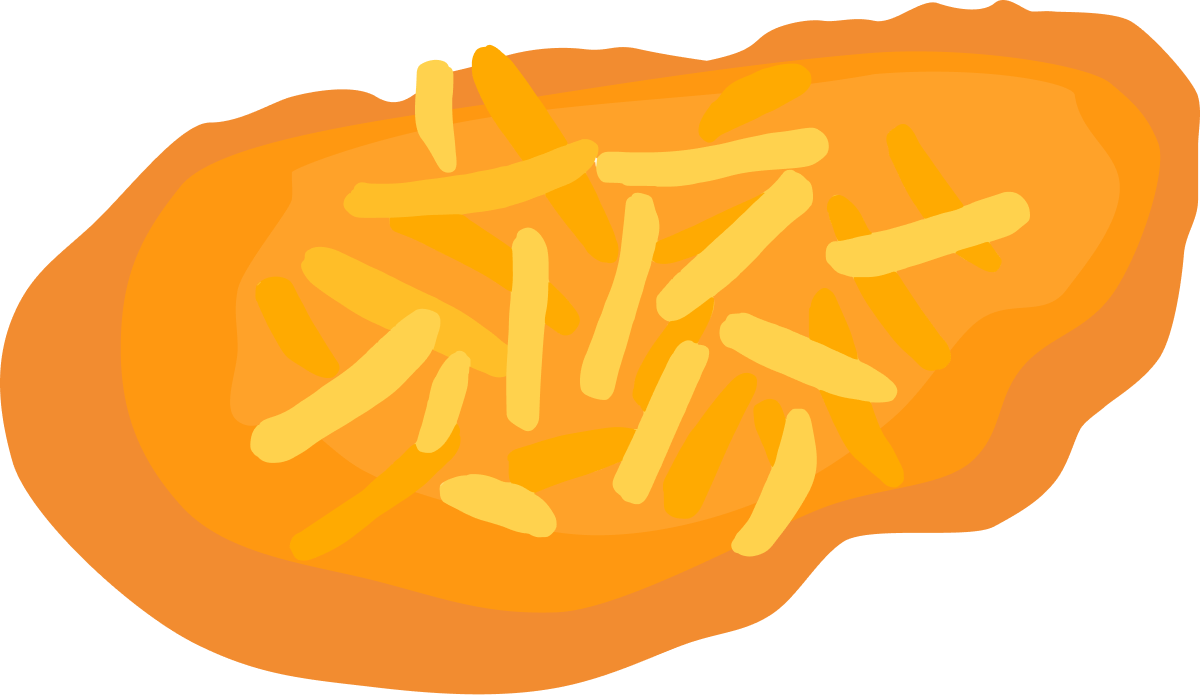
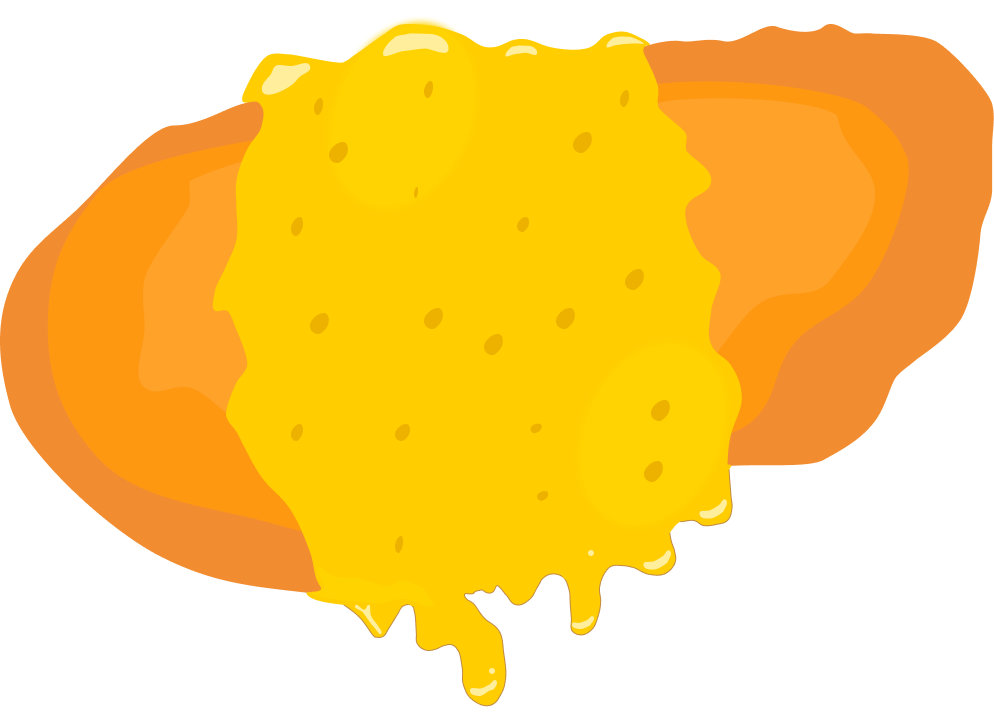
finer details

diff --git a/GetCooking/Managers/GameStateManager.swift b/GetCooking/Managers/GameStateManager.swift
@@ -160,6 +160,22 @@ final class GameStateManager: ObservableObject {
         max(Self.baseSpawnStagger / difficultyMultiplier, Self.minimumSpawnStagger)
     }
 
+    /// How strongly the music tempo tracks the difficulty tier. `1.0` makes the
+    /// music speed equal `difficultyMultiplier` outright (so 1.25× on the first
+    /// speed-up); lower values ramp the tempo up more gently than the clock.
+    /// Tune to taste — 0.5 gives a noticeable-but-not-frantic climb.
+    private static let musicTempoIntensity: Float = 0.5
+
+    /// The background-music playback speed for the current tier. On tier 0 it is
+    /// `1.0` (normal speed) and it climbs from there, blended toward normal by
+    /// `musicTempoIntensity` and clamped to the `0.5...2.0` range `AVAudioPlayer`
+    /// honours. `AudioManager.setMusicRate` clamps too, so this can never drive
+    /// the player out of range.
+    var musicRate: Float {
+        let blended = 1.0 + (Float(difficultyMultiplier) - 1.0) * Self.musicTempoIntensity
+        return min(max(blended, 0.5), 2.0)
+    }
+
     /// Whether the assembly clock is running.
     ///
     /// Only while `.cooking`. The moment the plate matches, the dish is safe:
@@ -229,6 +245,11 @@ final class GameStateManager: ObservableObject {
         // A restart wipes the board, so any low-time warning still looping from
         // the run that just ended has to be silenced explicitly.
         AudioManager.shared.stopClockWarning()
+        
+        // A fresh run starts on tier 0, so drop the music back to normal speed —
+        // otherwise it would still be racing at last run's tempo through the
+        // countdown until the first dish resets it.
+        AudioManager.shared.setMusicRate(1.0)
         AudioManager.shared.play(.reset)
         dishesByType = [:]
         speedBonus = 0
@@ -316,6 +337,9 @@ final class GameStateManager: ObservableObject {
     private func beginDishClock() {
         dishTimeLimit = max(currentRecipe.timeLimit / difficultyMultiplier, Self.minimumDishTime)
         dishDeadline = playClock + dishTimeLimit
+        // Push the music tempo up in lock-step with the tier that just squeezed
+        // the clock, so the track audibly speeds up as the run gets harder.
+        AudioManager.shared.setMusicRate(musicRate)
     }
 
     /// The dish clock ran out: costs a life, then either ends the run or moves
@@ -434,8 +458,8 @@ final class GameStateManager: ObservableObject {
         // carries the plate to the bell, so reading it later would under-count.
         recordCompletedDish()
         state = .dishComplete
-        // The plate is right: ring the bell — the dish is up.
-        AudioManager.shared.play(.bell)
+        
+        // The plate is right
         DispatchQueue.main.asyncAfter(deadline: .now() + Self.dishRevealDuration) { [weak self] in
             guard let self, self.state == .dishComplete else { return }
             self.bellSide = Bool.random() ? .left : .right
@@ -463,7 +487,7 @@ final class GameStateManager: ObservableObject {
         plateContents = []
         bellSide = nil
         currentRecipe = nextRecipe()
-        beginDishClock()
+        beginDishClock()   // also bumps the music tempo for the new tier
         state = .cooking
     }
 

diff --git a/GetCooking/Scenes/Components/ResetButtonNode.swift b/GetCooking/Scenes/Components/ResetButtonNode.swift
@@ -10,55 +10,39 @@ import SwiftUI
 
 final class ResetButtonNode: SKNode {
     let resetRadius: CGFloat
-    private let circle: SKShapeNode
-    private let arrow: SKSpriteNode
+    private let button: SKSpriteNode
     private let label: SKLabelNode
 
     init(radius: CGFloat) {
         self.resetRadius = radius
-        
-        // Circle
-        circle = SKShapeNode(circleOfRadius: resetRadius)
-        circle.fillColor = SKColor(.appText)
-        circle.strokeColor = .clear
-        
-        // Arrow
-        let config = UIImage.SymbolConfiguration(
-            pointSize: 50,
-            weight: .bold,
-        )
-        
-        // TODO: FIX COLOR, it doesnt show in the game.
-        
-        guard let image = UIImage(
-            systemName: "arrow.counterclockwise",
-            withConfiguration: config
-        )?.withTintColor(.appTertiary)
-        else {
-            fatalError("Could not load SF Symbol: arrow.counterclockwise")
-        }
 
-        
-        arrow = SKSpriteNode(
-            texture: SKTexture(image: image)
-        )
-        
+        // Button artwork from Assets.xcassets ("ResetButton") instead of a
+        // drawn circle + SF Symbol arrow. Sized to the same footprint the old
+        // circle had — width = 2 × resetRadius — so hit-testing and layout that
+        // key off `resetRadius` are unaffected. The height follows the image's
+        // own aspect ratio so it never looks squashed.
+        let texture = SKTexture(imageNamed: "ResetButton")
+        button = SKSpriteNode(texture: texture)
+
+        let targetWidth = resetRadius * 2
+        let aspect = texture.size().height / max(texture.size().width, 1)
+        button.size = CGSize(width: targetWidth, height: targetWidth * aspect)
+
         label = SKLabelNode()
-         
+
         super.init()
-        
-        setupArrow()
+
+        button.position = .zero
         setupLabel()
-        
-        addChild(circle)
-        addChild(arrow)
+
+        addChild(button)
         addChild(label)
     }
 
     required init?(coder aDecoder: NSCoder) {
         fatalError("init(coder:) has not been implemented")
     }
-    
+
     private func setupLabel() {
         let text = "Reset"
         let fontName = "SFPro-Bold"
@@ -97,9 +81,5 @@ final class ResetButtonNode: SKNode {
         node.verticalAlignmentMode = .center
         node.horizontalAlignmentMode = .center
         return node
-    }
- 
-    private func setupArrow() {
-        arrow.position = .zero
     }
 }

diff --git a/GetCooking/Managers/AudioManager.swift b/GetCooking/Managers/AudioManager.swift
@@ -233,6 +233,7 @@ final class AudioManager: NSObject {
             let player = try AVAudioPlayer(contentsOf: url)
             player.numberOfLoops = -1        // loop for the whole session
             player.volume = 0                // faded up below
+            player.enableRate = true
             player.prepareToPlay()
             player.play()
             player.setVolume(musicVolume, fadeDuration: fadeIn)
@@ -257,6 +258,20 @@ final class AudioManager: NSObject {
         DispatchQueue.main.asyncAfter(deadline: .now() + fadeOut) {
             player.stop()
         }
+    }
+    
+    /// Sets the background music's playback speed directly. `1.0` is normal
+    /// speed, `2.0` is double-time; `AVAudioPlayer` only honours the range
+    /// `0.5...2.0`, so anything outside is clamped here rather than silently
+    /// ignored by the OS.
+    ///
+    /// This is an *absolute* setter, not a relative nudge — pass the tempo you
+    /// want, not the amount to change by. (The old `changeRate(by:)` added to
+    /// the current rate on every call, which pinned it to the 2.0 ceiling after
+    /// a round or two.)
+    func setMusicRate(_ rate: Float) {
+        guard let player = musicPlayer else { return }
+        player.rate = min(max(rate, 0.5), 2.0)
     }
 
     /// Pauses the music in place (e.g. the Pause button) — resume with `resumeMusic()`.

diff --git a/GetCooking/Models/GameOption.swift b/GetCooking/Models/GameOption.swift
@@ -23,7 +23,7 @@ struct GameOption: Identifiable, Hashable, Equatable {
 
 extension GameOption {
     static let all: [GameOption] = [
-        GameOption(title: "GetCooking", type: .getCooking, imageName: "GetCooking", isAvailable: true, highScore: 1000, requiresCalibration: false),
+        GameOption(title: "GetCooking", type: .getCooking, imageName: "GetCooking", isAvailable: true, highScore: 1000, requiresCalibration: true),
 //        GameOption(title: "Coming Soon", type: .getCooking, imageName: "ComingSoon", isAvailable: false, highScore: nil),
     ]
 }

diff --git a/GetCooking/Scenes/GameScene/Serving.swift b/GetCooking/Scenes/GameScene/Serving.swift
@@ -94,6 +94,7 @@ extension GameScene {
         bell.run(animation)
 
         bellNode = bell
+        AudioManager.shared.play(.bell)
     }
 
     // MARK: - Serve animation
